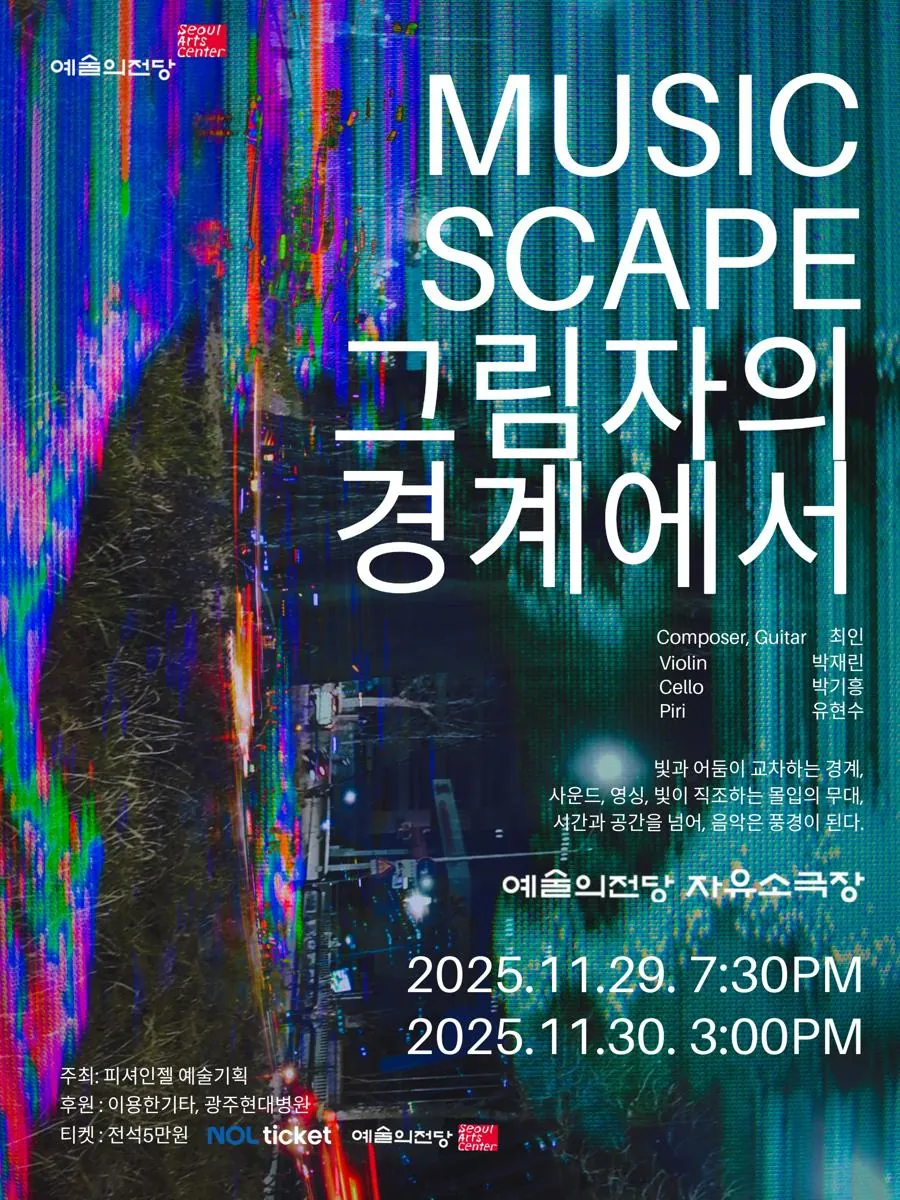
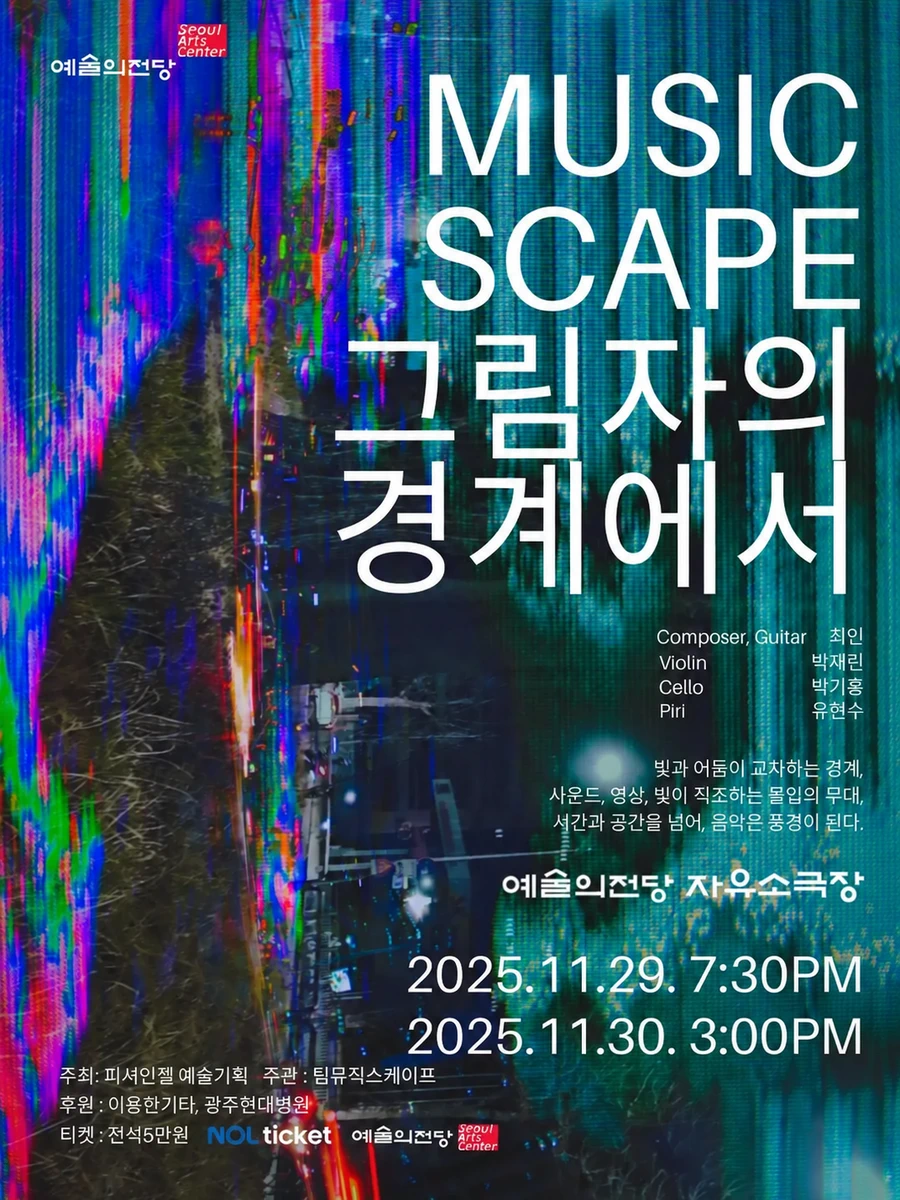
Update At the Edge of Shadow poster credit

diff --git a/team_musicscape_web/projects/2025-sac/archive/index.html b/team_musicscape_web/projects/2025-sac/archive/index.html
@@ -7,7 +7,7 @@
   <meta name="description" content="팀뮤직스케이프 2025 예술의전당 공연 그림자의 경계에서 아카이브"/>
   <link rel="canonical" href="https://www.team-musicscape.kr/projects/2025-sac/archive/"/>
   <meta property="og:url" content="https://www.team-musicscape.kr/projects/2025-sac/archive/"/>
-  <meta property="og:image" content="https://www.team-musicscape.kr/projects/2025-sac/archive/images/poster.jpg"/>
+  <meta property="og:image" content="https://www.team-musicscape.kr/projects/2025-sac/archive/images/poster.jpg?v=20261117-team-credit"/>
   <script src="https://cdn.tailwindcss.com"></script>
   <style>
     :root{ --bg:#0b0b0f; --fg:#e9e9ee; --muted:#a7a7b2; --line:#23232c; }

diff --git a/team_musicscape_web/team_musicscape_web/index.html b/team_musicscape_web/team_musicscape_web/index.html
@@ -238,7 +238,7 @@
                 <a href="https://2025sac.musicscape.fischerinsel-art.com/archive/" target="_blank" class="project-card reveal">
                     <div class="project-img">
                         <!-- 포스터 사진: images/poster-1.jpg -->
-                        <div class="project-img-inner" style="background-image:url('images/poster-1.jpg')"></div>
+                        <div class="project-img-inner" style="background-image:url('images/poster-1.jpg?v=20261117-team-credit')"></div>
                     </div>
                     <div class="project-meta">
                         <span class="project-year">2025</span>

diff --git a/index.html b/index.html
@@ -304,7 +304,7 @@
                 <a href="/projects/2025-sac/archive/" class="project-card reveal">
                     <div class="project-img">
                         <!-- 포스터 사진: images/poster-1.jpg -->
-                        <div class="project-img-inner" style="background-image:url('images/poster-1.jpg')"></div>
+                        <div class="project-img-inner" style="background-image:url('images/poster-1.jpg?v=20261117-team-credit')"></div>
                     </div>
                     <div class="project-meta">
                         <span class="project-year">2025</span>

diff --git a/team_musicscape_web/index.html b/team_musicscape_web/index.html
@@ -317,7 +317,7 @@
                 <a href="/projects/2025-sac/archive/" class="project-card reveal">
                     <div class="project-img">
                         <!-- 포스터 사진: images/poster-1.jpg -->
-                        <div class="project-img-inner" style="background-image:url('images/poster-1.jpg')"></div>
+                        <div class="project-img-inner" style="background-image:url('images/poster-1.jpg?v=20261117-team-credit')"></div>
                     </div>
                     <div class="project-meta">
                         <span class="project-year">2025</span>

diff --git a/team_musicscape_web/team_musicscape_web/index-en.html b/team_musicscape_web/team_musicscape_web/index-en.html
@@ -230,7 +230,7 @@
 
                 <a href="https://2025sac.musicscape.fischerinsel-art.com/archive/" target="_blank" class="project-card reveal">
                     <div class="project-img">
-                        <div class="project-img-inner" style="background-image:url('images/poster-1.jpg')"></div>
+                        <div class="project-img-inner" style="background-image:url('images/poster-1.jpg?v=20261117-team-credit')"></div>
                     </div>
                     <div class="project-meta">
                         <span class="project-year">2025</span>

diff --git a/team_musicscape_web/index-en.html b/team_musicscape_web/index-en.html
@@ -230,7 +230,7 @@
 
                 <a href="/projects/2025-sac/archive/" class="project-card reveal">
                     <div class="project-img">
-                        <div class="project-img-inner" style="background-image:url('images/poster-1.jpg')"></div>
+                        <div class="project-img-inner" style="background-image:url('images/poster-1.jpg?v=20261117-team-credit')"></div>
                     </div>
                     <div class="project-meta">
                         <span class="project-year">2025</span>

diff --git a/team_musicscape_web/projects/2025-sac/index.html b/team_musicscape_web/projects/2025-sac/index.html
@@ -641,7 +641,7 @@
 <section id="poster" class="hero">
   <div class="poster-wrapper">
     <img 
-      src="images/poster.webp" 
+      src="images/poster.webp?v=20261117-team-credit"
       alt="Musicscape – At the Edge of Shadow 포스터" 
       class="poster-image">
   </div>
